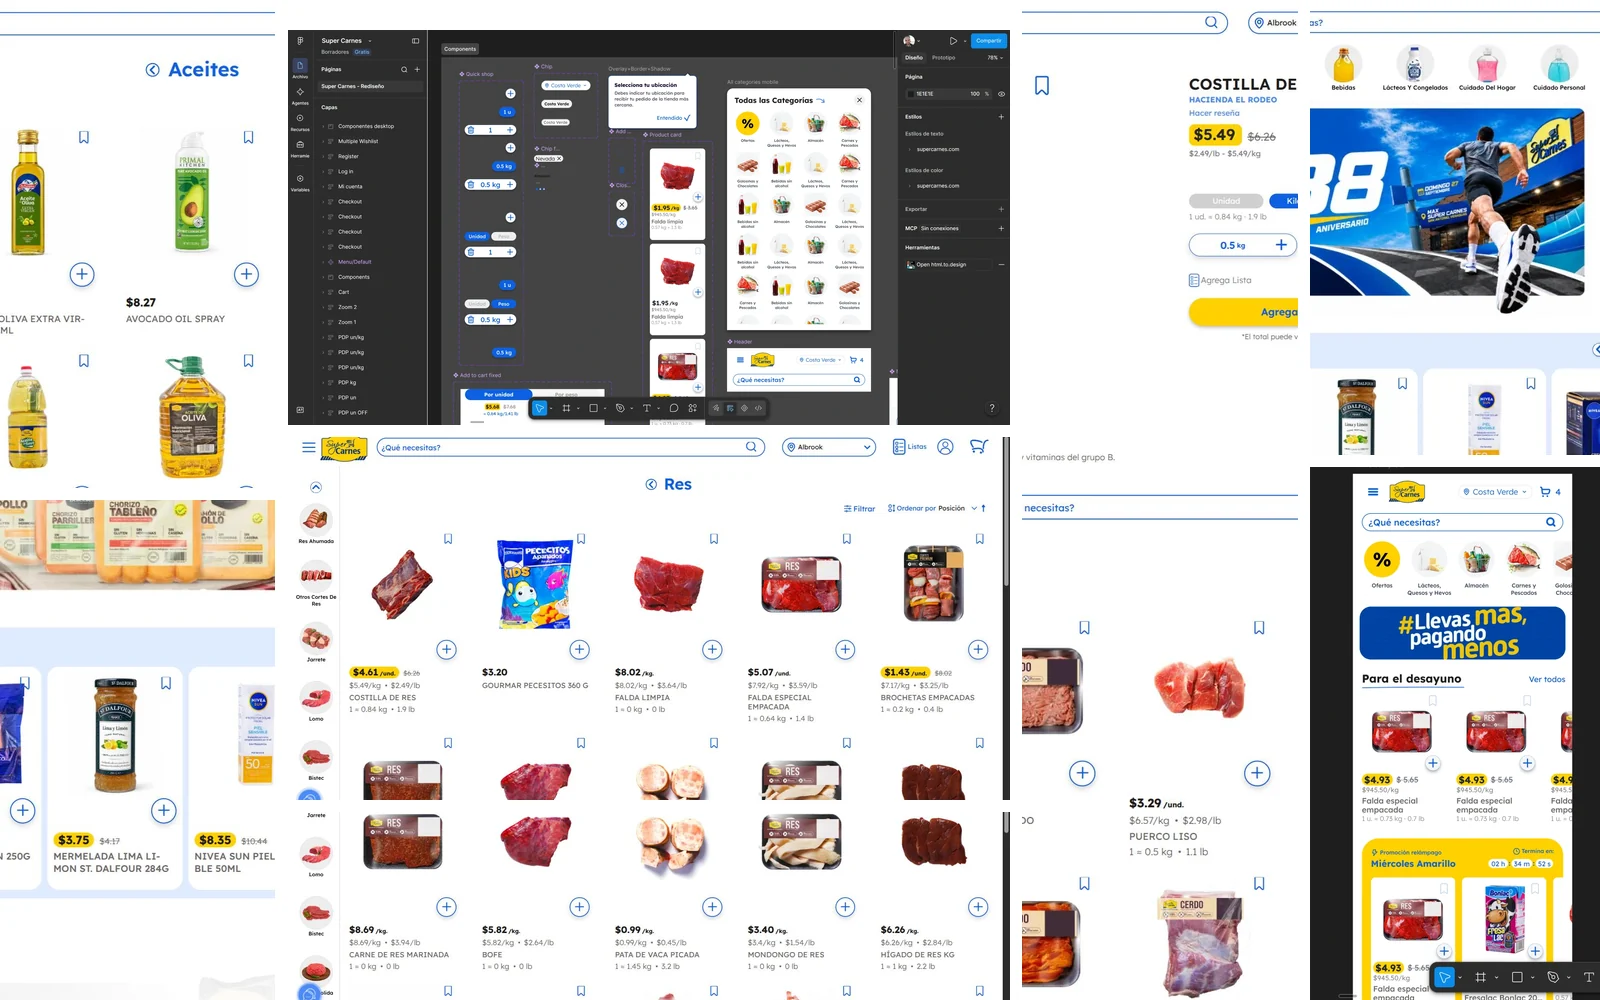
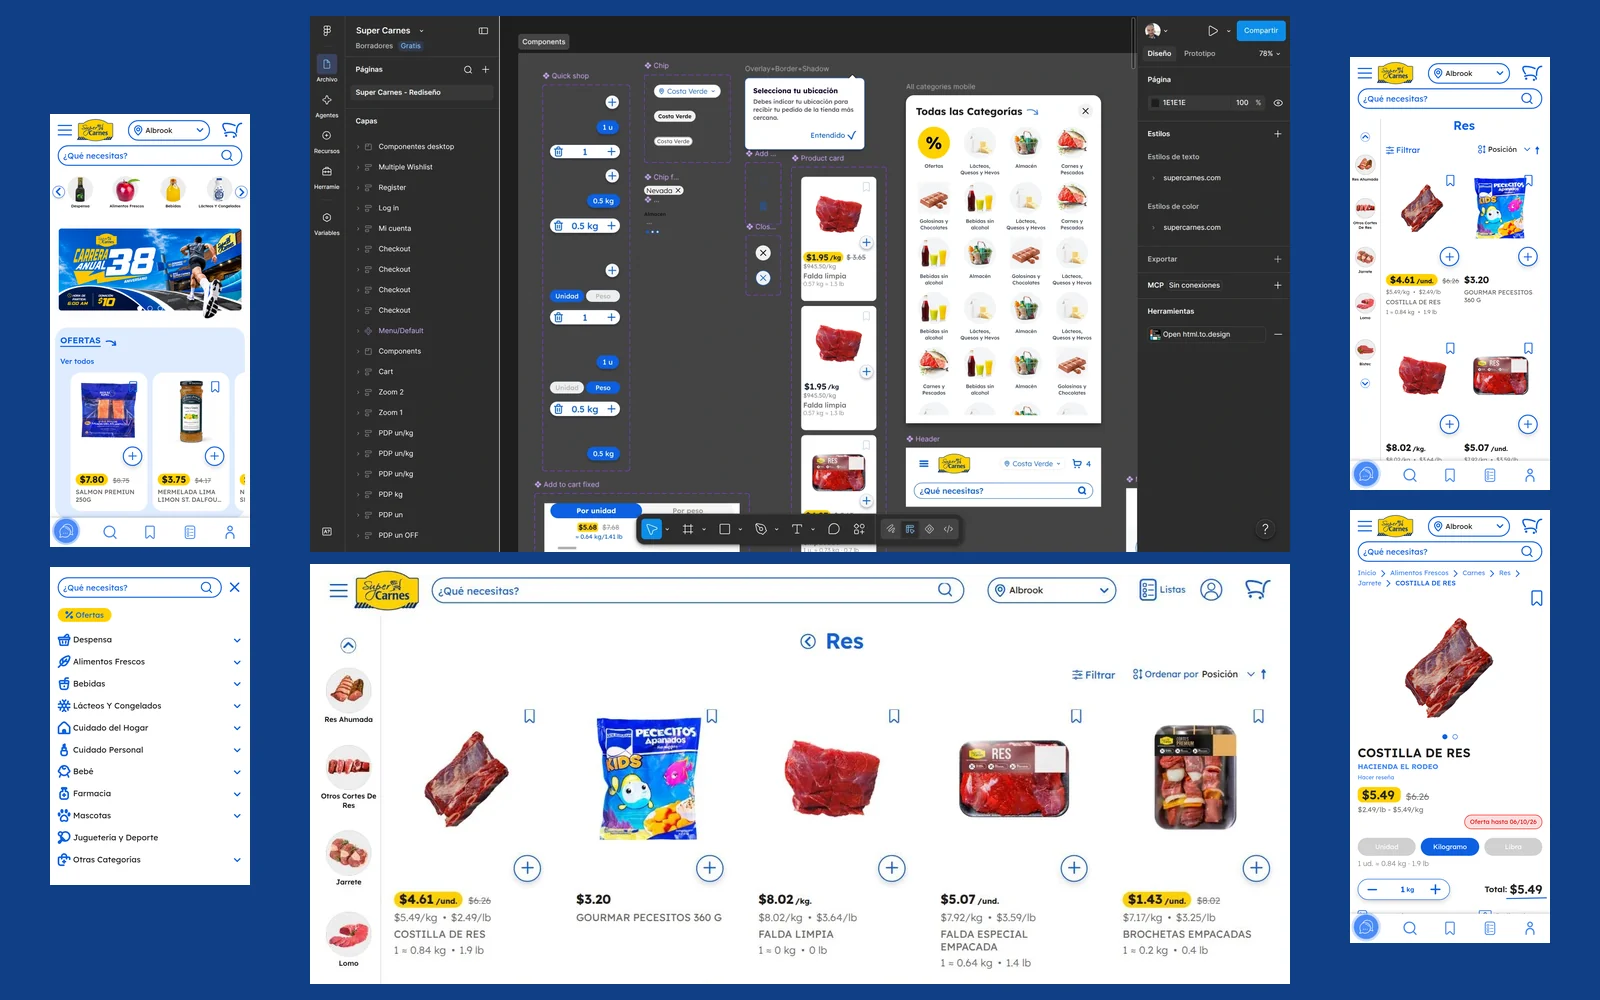
Super Carnes: el mosaico va con el sitio en mobile y fondo azul
Los recortes que rodeaban a las dos piezas centrales eran encuadres sin
interés. Los reemplazan cuatro pantallas enteras del sitio en el celular:
home, menú de categorías, listado y ficha con el selector y el total. En el
centro quedan el archivo de Figma y la PLP, que es lo único que entra en el
recorte cuadrado de la tarjeta.

El fondo pasa a azul de la marca: el sitio es casi todo blanco y sin fondo
las capturas se perdían contra la página.

Las capturas de escritorio se recortan para sacarles la barra de scroll del
navegador, que quedaba dentro de la imagen. La captura enlazada al sitio se
vuelve a exportar sin ella.

Las pantallas de celular se tomaron con Chrome por CDP, emulando 390 px, que
es la única forma de pasar el modal de sucursal en headless.

Claude-Session: https://claude.ai/code/session_01M2dDEhZcV7tUGrJanzxNgs

diff --git a/diseno/index.html b/diseno/index.html
@@ -231,7 +231,7 @@
           <figure>
             <img src="../img/sc-mosaico.webp"
                  srcset="../img/sc-mosaico-800.webp 800w, ../img/sc-mosaico.webp 1600w" sizes="(max-width: 900px) 92vw, 1200px" width="1600" height="1000" loading="lazy"
-                 alt="Mosaico del proyecto Super Carnes. En el centro, el listado en producción: cada tarjeta muestra el precio por unidad y por kilo, la equivalencia entre las dos y un botón para agregar. Arriba, el archivo de Figma con la librería de componentes y las dos versiones de home. Abajo, la ficha con el selector de unidad, kilogramo y libra, y el home publicado.">
+                 alt="Mosaico del proyecto Super Carnes. En el centro, el archivo de Figma con la librería de componentes y, debajo, el listado en producción: cada tarjeta de producto muestra el precio por unidad y por kilo, la equivalencia entre las dos y un botón para agregar. A los costados, el sitio en el celular: el home, el menú de categorías, el listado y la ficha con el selector y el total.">
             <figcaption>El archivo de Figma y el sitio en producción: la tarjeta de producto quedó con los dos precios, la equivalencia y el botón para agregar.</figcaption>
           </figure>
           <figure>
@@ -249,7 +249,7 @@
           <figure>
             <a href="https://supercarnes.com" target="_blank" rel="noopener">
               <img src="../img/sc-plp.webp"
-                   srcset="../img/sc-plp-800.webp 800w, ../img/sc-plp.webp 1487w" sizes="(max-width: 900px) 92vw, 1200px" width="1487" height="812" loading="lazy"
+                   srcset="../img/sc-plp-800.webp 800w, ../img/sc-plp.webp 1472w" sizes="(max-width: 900px) 92vw, 1200px" width="1472" height="812" loading="lazy"
                    alt="Listado de carnes de res en supercarnes.com: cada tarjeta de producto muestra el precio por unidad y por kilo, la equivalencia entre las dos y el botón para agregar.">
             </a>
             <figcaption>El listado en producción, con las tarjetas de producto. Abrir supercarnes.com</figcaption>

diff --git a/en/diseno/index.html b/en/diseno/index.html
@@ -231,7 +231,7 @@
           <figure>
             <img src="../../img/sc-mosaico.webp"
                  srcset="../../img/sc-mosaico-800.webp 800w, ../../img/sc-mosaico.webp 1600w" sizes="(max-width: 900px) 92vw, 1200px" width="1600" height="1000" loading="lazy"
-                 alt="Mosaic of the Super Carnes project. At the centre, the live listing: every card shows the price per unit and per kilo, the equivalence between them and a button to add. Above, the Figma file with the component library and the two home versions. Below, the product page with its unit, kilogram and pound selector, and the live home page.">
+                 alt="Mosaic of the Super Carnes project. At the centre, the Figma file with the component library and, below it, the live listing: every product card shows the price per unit and per kilo, the equivalence between them and a button to add. On either side, the site on a phone: the home, the category menu, the listing and the product page with its selector and total.">
             <figcaption>The Figma file and the live site: the product card ended up with both prices, the equivalence and the add button.</figcaption>
           </figure>
           <figure>
@@ -249,7 +249,7 @@
           <figure>
             <a href="https://supercarnes.com" target="_blank" rel="noopener">
               <img src="../../img/sc-plp.webp"
-                   srcset="../../img/sc-plp-800.webp 800w, ../../img/sc-plp.webp 1487w" sizes="(max-width: 900px) 92vw, 1200px" width="1487" height="812" loading="lazy"
+                   srcset="../../img/sc-plp-800.webp 800w, ../../img/sc-plp.webp 1472w" sizes="(max-width: 900px) 92vw, 1200px" width="1472" height="812" loading="lazy"
                    alt="Beef listing on supercarnes.com: every product card shows the price per unit and per kilo, the equivalence between them and the add button.">
             </a>
             <figcaption>The live listing, with its product cards. Open supercarnes.com</figcaption>
